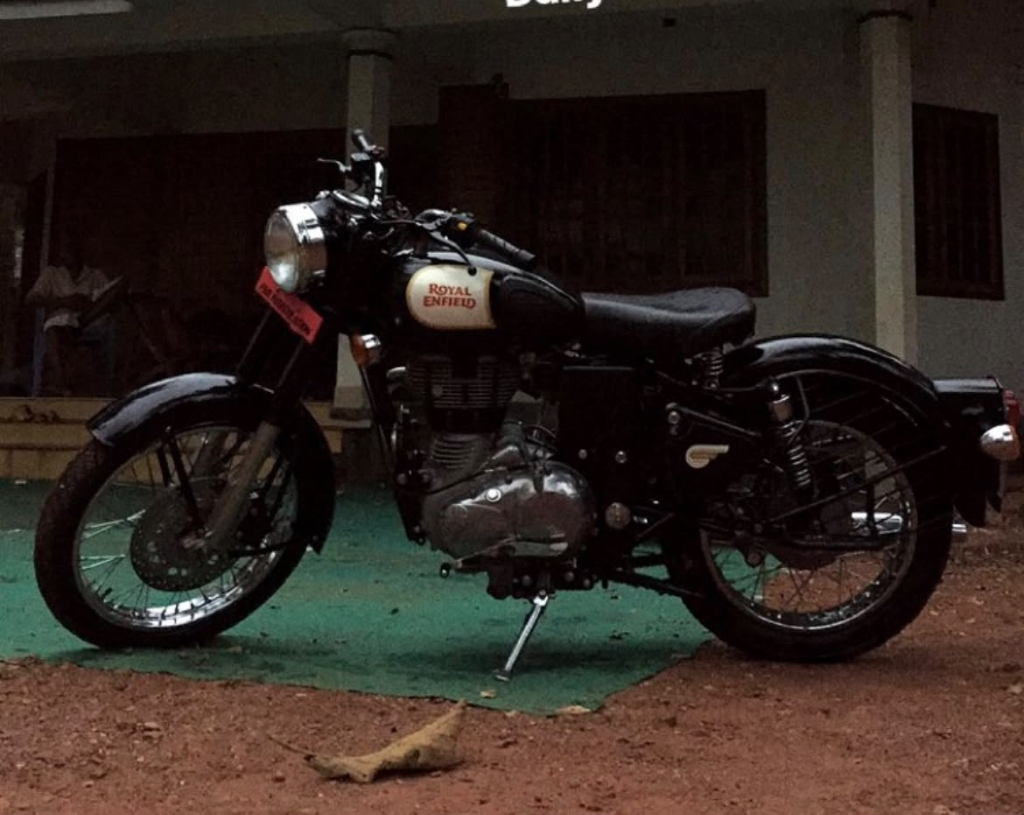
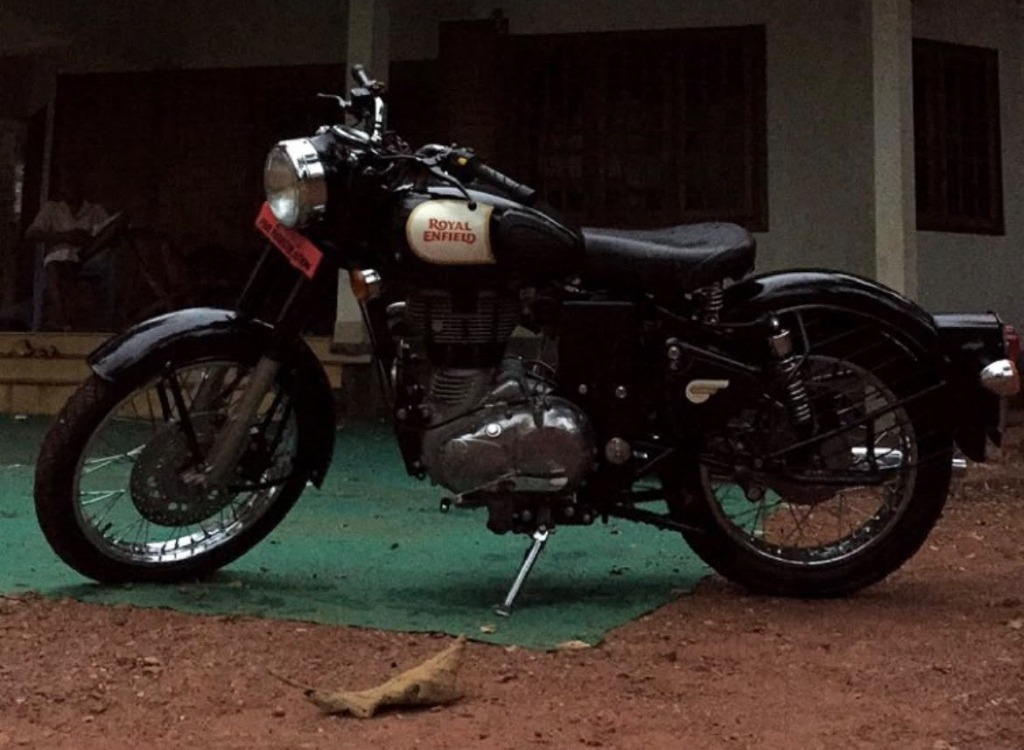
Royal Enfield theme update

diff --git a/css/style.css b/css/style.css
@@ -1042,14 +1042,52 @@ main,
   margin-top: 48px;
   display: inline-flex;
   align-items: center;
-  gap: 10px;
+  gap: 12px;
   font-family: var(--font-mono);
-  font-size: 0.76rem;
-  letter-spacing: 0.22em;
+  font-size: 0.78rem;
+  letter-spacing: 0.2em;
   text-transform: uppercase;
   color: var(--brass);
   cursor: pointer;
   animation: floatDown 2.2s infinite ease-in-out;
+  padding: 6px 14px;
+  border-radius: var(--radius-sm);
+  background: rgba(11, 11, 12, 0.6);
+  border: 1px solid rgba(201, 204, 209, 0.15);
+  box-shadow: 0 4px 12px rgba(0, 0, 0, 0.6);
+  transition: all var(--transition-fast);
+}
+
+.hero-scroll-indicator:hover {
+  color: var(--cream);
+  border-color: var(--crimson);
+  background: rgba(179, 38, 30, 0.15);
+}
+
+.hero-odo-badge {
+  display: inline-flex;
+  gap: 2px;
+  background: #08080a;
+  border: 1px solid var(--chrome-border);
+  padding: 2px 4px;
+  border-radius: 2px;
+}
+
+.odo-cell {
+  background: #18181c;
+  color: var(--cream);
+  font-family: var(--font-mono);
+  font-size: 0.75rem;
+  font-weight: 700;
+  padding: 1px 4px;
+  border-radius: 1px;
+  line-height: 1.1;
+  box-shadow: inset 0 1px 2px rgba(0, 0, 0, 0.9);
+}
+
+.odo-cell:last-child {
+  background: var(--crimson);
+  color: #ffffff;
 }
 
 @keyframes floatDown {

diff --git a/index.html b/index.html
@@ -219,7 +219,14 @@
           </div>
 
           <a href="#about" class="hero-scroll-indicator" aria-label="Scroll to About Section">
-            <span>Cruise Down</span>
+            <span class="hero-odo-badge" aria-hidden="true">
+              <span class="odo-cell">0</span>
+              <span class="odo-cell">0</span>
+              <span class="odo-cell">3</span>
+              <span class="odo-cell">5</span>
+              <span class="odo-cell">0</span>
+            </span>
+            <span>Scroll Down</span>
             <svg viewBox="0 0 24 24" aria-hidden="true">
               <path d="M7.41 8.59L12 13.17l4.59-4.58L18 10l-6 6-6-6 1.41-1.41z" />
             </svg>
@@ -1035,7 +1042,7 @@
             <!-- Long bottle exhaust pipe -->
             <path d="M 43 28 L 10 28" stroke="#efe3c8" />
           </svg>
-          <span>Crafted in Mangalore, India &bull; Inspired by the Classic Royal Enfield</span>
+          <span>Built in Mangalore, India &bull; Classic Heritage Edition</span>
         </div>
 
         <p>&copy; 2026 A M Nakeeb. All rights reserved.</p>

diff --git a/README.md b/README.md
@@ -17,11 +17,11 @@ Designed around a classic **Royal Enfield motorcycle aesthetic**, drawing direct
 
 ## 🌟 Key Features
 
-1. **Interactive 3D Background & Isolated Bike Showcase**:
-   - Clean, interactive 3D canvas background with smooth perspective depth and mouse parallax.
-   - Features `assets/bike-cutout.png` with transparent background cutout, metallic drop-shadow, and instant 3D design / bike toggle.
+1. **Full-Bleed Motorcycle Hero with Ken Burns Drift**:
+   - Features `assets/bike.jpg` (top 8% cropped to remove cut-off text) and optimized `assets/bike.webp` fallback.
+   - Multi-stop vignette gradient ensuring text contrast remains WCAG AA compliant over the image.
    - Cast-badge buttons with cream fill, chrome borders, and red hover state.
-   - Kickstand/odometer inspired *"Cruise Down"* indicator.
+   - Mechanical odometer-styled *"Scroll Down"* indicator.
 
 2. **Speedometer "Engine Start" Ignition Loader**:
    - Vintage Royal Enfield speedometer dial with red needle sweeping from 0 to 140 km/h.
@@ -62,8 +62,8 @@ portfolio/
 ├── js/
 │   └── main.js           # Vanilla JS (Speedometer loader, fuel gauge, 3D canvas, typewriter, scrollspy)
 ├── assets/
-│   ├── bike-cutout.png   # Transparent cutout of Royal Enfield Bullet 350 (background removed)
-│   ├── bike.jpg          # User's classic Royal Enfield motorcycle photograph
+│   ├── bike.jpg          # Cropped classic Royal Enfield motorcycle photograph
+│   ├── bike.webp         # High-efficiency WebP version for fast loading
 │   ├── favicon.svg       # Custom brass & chrome heritage monogram crest
 │   └── Resume.pdf        # Verified downloadable resume document
 └── README.md             # Documentation & deployment guide
